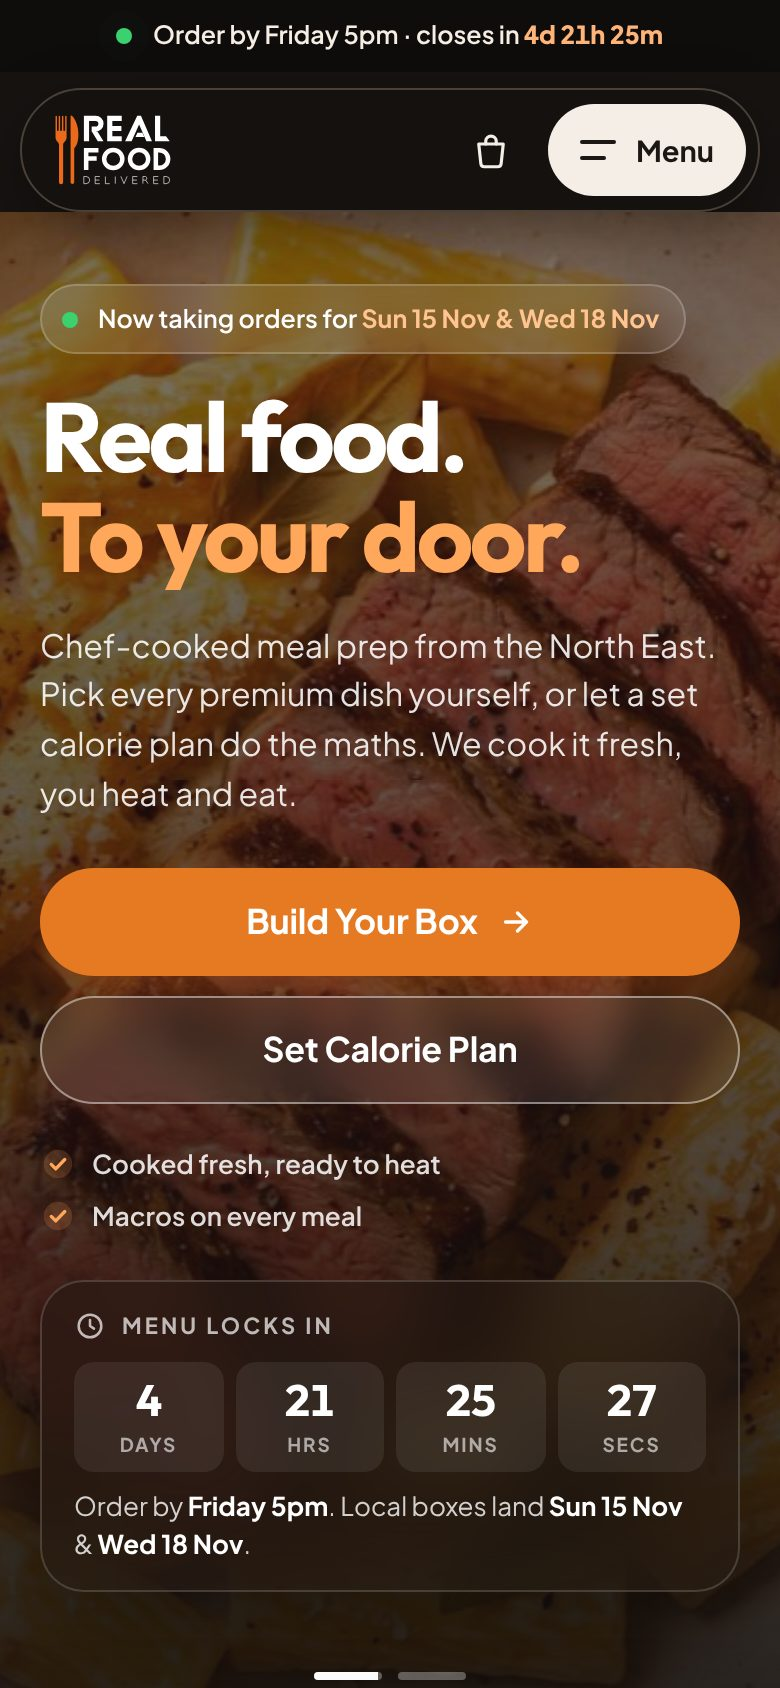
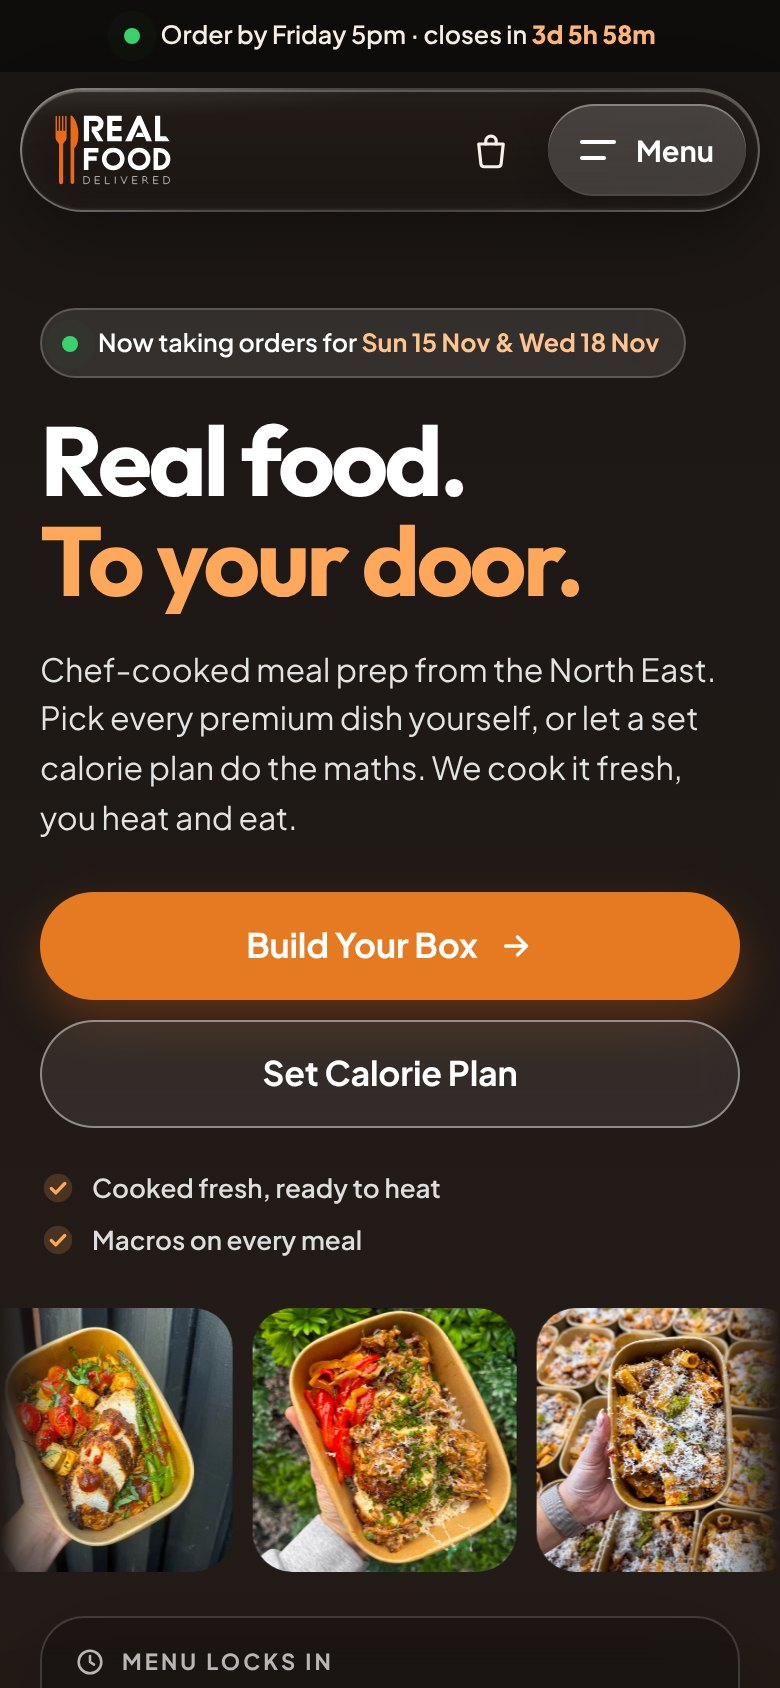
Real Food Delivered: refresh desktop and phone previews
New homepage screenshots on desktop and phone, a second phone screen
(Two ways to eat), a rebuilt work-page stack image, and the light-mode
flip removed since the new hero looks the same in both themes.

Claude-Session: https://claude.ai/code/session_01KCgYBU3EFwJ9yTuQXPpGBm

diff --git a/src/components/showcase/data.ts b/src/components/showcase/data.ts
@@ -61,9 +61,10 @@ export const showcase: Record<string, ShowcaseEntry> = {
       { feature: 3, x: 43.4, y: 83 },
     ],
     phoneFeature: 4,
-    phone: [{ src: "/work/real-food-mobile.jpg", label: "Home", alt: "Real Food Delivered on a phone in dark mode, with Build Your Box, Set Calorie Plan and the menu countdown." }],
-    lightImage: "/work/real-food-light.jpg",
-    themeToggle: { x: 75.8, y: 9.1 },
+    phone: [
+      { src: "/work/real-food-mobile.jpg", label: "Home", alt: "Real Food Delivered on a phone: Real food. To your door., with Build Your Box and Set Calorie Plan above a strip of this week’s dishes." },
+      { src: "/work/real-food-ways-mobile.jpg", label: "Two ways to order", alt: "Real Food Delivered on a phone: Two ways to eat. Same kitchen., with the Build Your Box card and a sticky Build Your Box and Calorie Plan bar." },
+    ],
   },
   "the-macro-kitchen": {
     accent: "#b9cf8c",

diff --git a/src/lib/content.ts b/src/lib/content.ts
@@ -154,8 +154,7 @@ export const projects: Project[] = [
     name: "Real Food Delivered",
     summary: "Chef-prepared meals. A custom box, or a set calorie plan.",
     image: "/work/real-food-dark.jpg",
-    hoverImage: "/work/real-food-light.jpg",
-    imageAlt: "Real Food Delivered homepage: “Real food. To your door.”, with Build Your Box, Set Calorie Plan and a countdown to the Friday 5pm menu lock.",
+    imageAlt: "Real Food Delivered homepage: “Real food. To your door.” over a wall of meal prep photos, with Build Your Box, Set Calorie Plan and a countdown to the Friday 5pm menu lock.",
     url: "https://www.realfooddelivered.co.uk",
     urlLabel: "realfooddelivered.co.uk",
     lede: "Two ways to buy from the same kitchen, without the homepage turning into a catalogue.",
